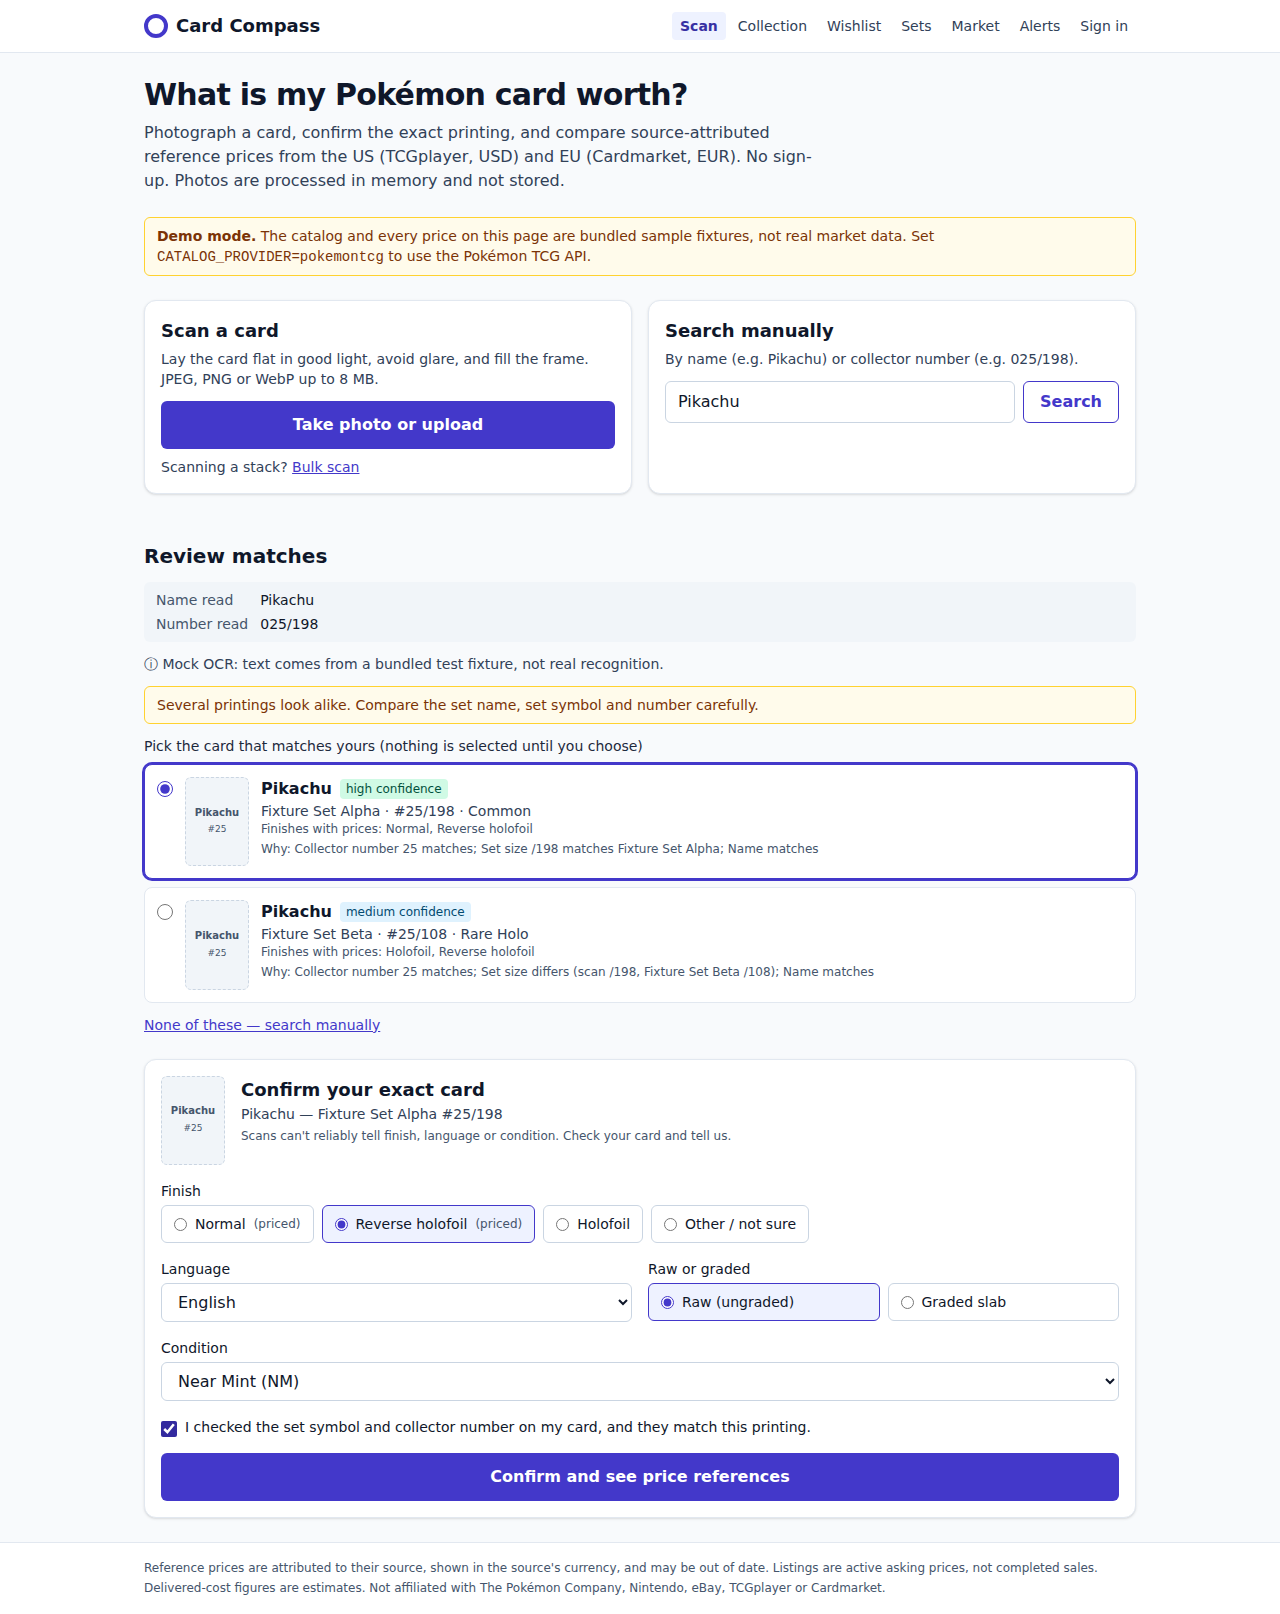
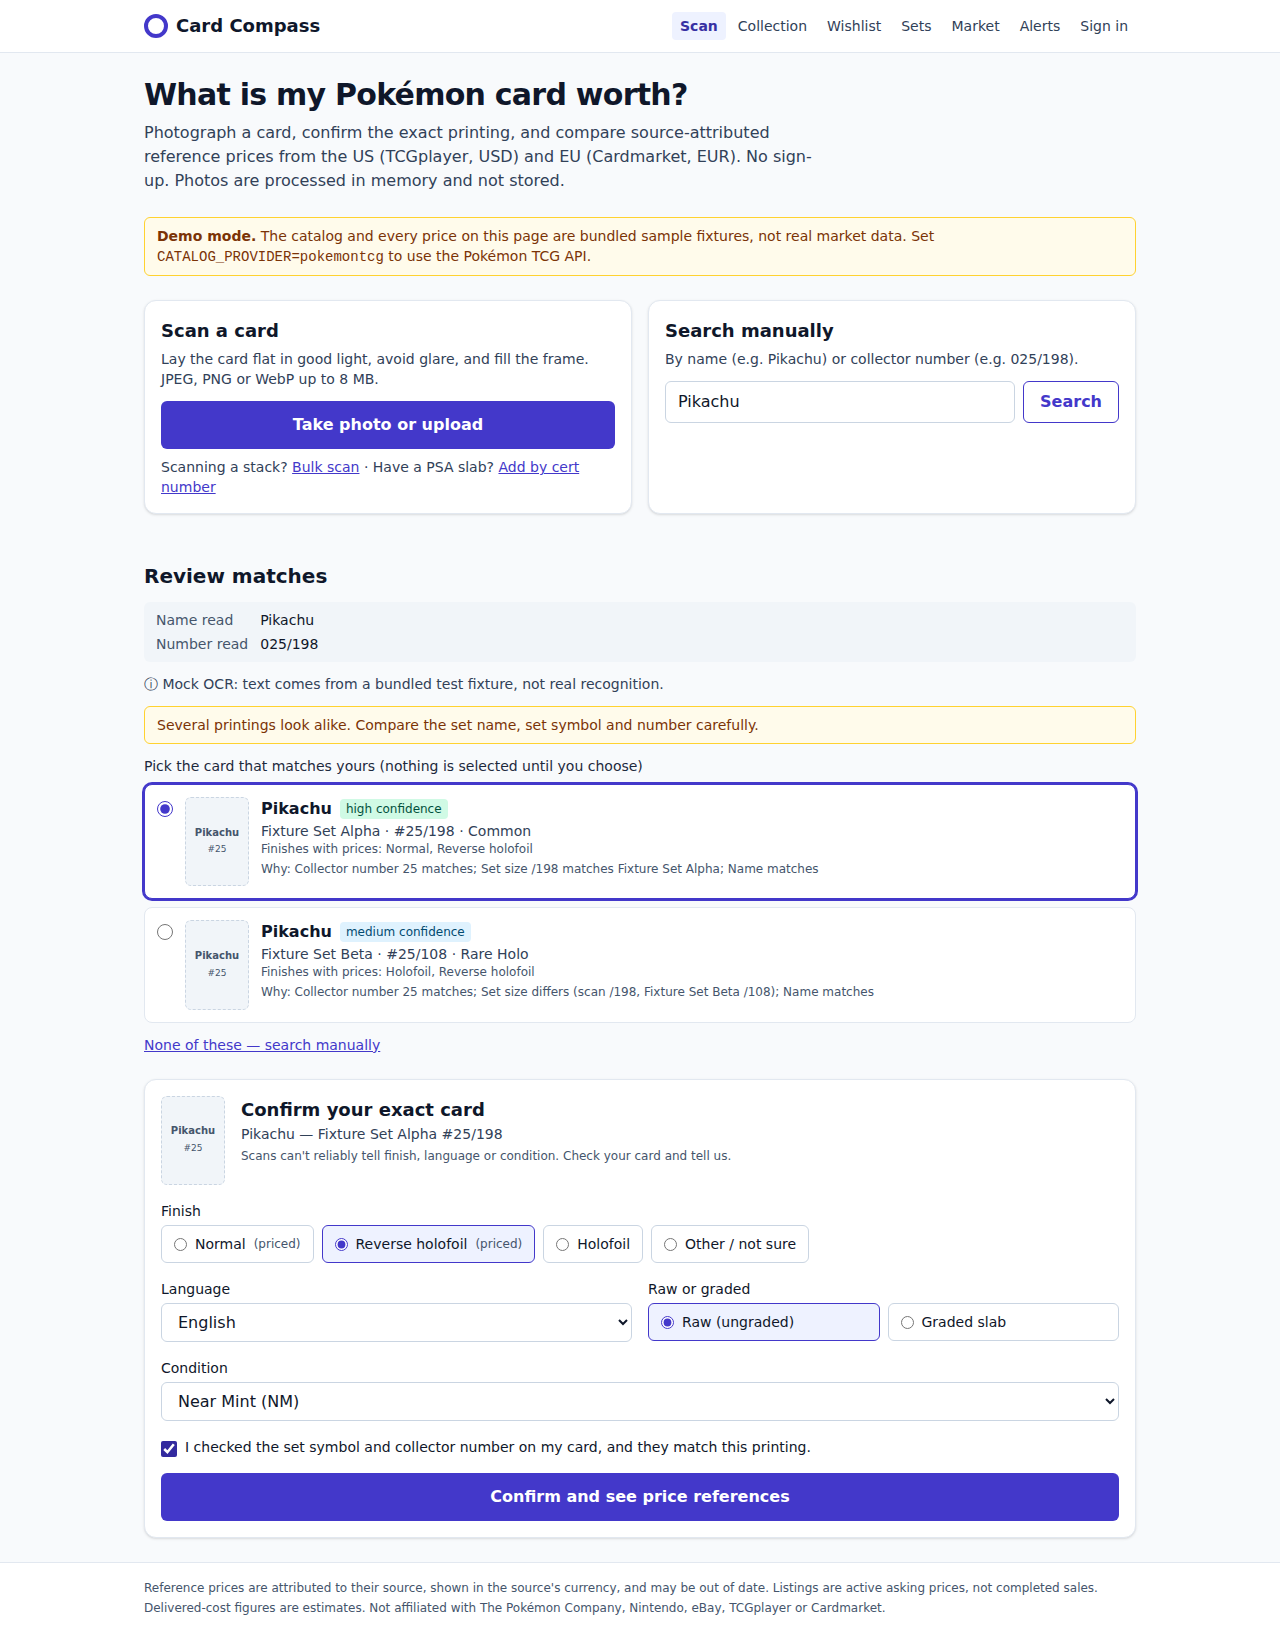
Card Compass: refreshed screenshots (graded, shared page) and a clickable tour page
Claude-Session: https://claude.ai/code/session_01KH5rvvVTWBHC9wvQBVnEjo

diff --git a/card-compass/docs/tour/index.html b/card-compass/docs/tour/index.html
@@ -1,0 +1,253 @@
+<title>Card Compass Tour</title>
+<link rel="preconnect" href="https://fonts.googleapis.com">
+<link rel="preconnect" href="https://fonts.gstatic.com" crossorigin>
+<link rel="stylesheet" href="https://fonts.googleapis.com/css2?family=Bricolage+Grotesque:opsz,wght@12..96,600;12..96,800&family=IBM+Plex+Sans:wght@400;500;600&family=IBM+Plex+Mono:wght@500&display=swap">
+<style>
+  /* Layout: a binder-page stepper on the left, a live device frame on the right; stacks to one column on phones. */
+  :root {
+    --bg: #f3f3f8;
+    --surface: #ffffff;
+    --ink: #151528;
+    --muted: #5a5a76;
+    --line: #dcdcea;
+    --accent: #4338ca;
+    --accent-soft: #e7e6fb;
+    --device: #1b1b2e;
+    --foil: linear-gradient(135deg, #7dd3fc, #c4b5fd 30%, #f9a8d4 55%, #fde68a 80%, #86efac);
+    --font-display: "Bricolage Grotesque", "Segoe UI", system-ui, sans-serif;
+    --font-body: "IBM Plex Sans", system-ui, -apple-system, "Segoe UI", sans-serif;
+    --font-data: "IBM Plex Mono", ui-monospace, "SFMono-Regular", Menlo, monospace;
+  }
+  @media (prefers-color-scheme: dark) {
+    :root:not([data-theme="light"]) {
+      --bg: #0f0f1c; --surface: #191930; --ink: #ececf7; --muted: #a3a3c2; --line: #2c2c48;
+      --accent: #a5b4fc; --accent-soft: #25254a; --device: #05050c; color-scheme: dark;
+    }
+  }
+  :root[data-theme="dark"] {
+    --bg: #0f0f1c; --surface: #191930; --ink: #ececf7; --muted: #a3a3c2; --line: #2c2c48;
+    --accent: #a5b4fc; --accent-soft: #25254a; --device: #05050c; color-scheme: dark;
+  }
+
+  * { box-sizing: border-box; }
+  body {
+    background: var(--bg);
+    color: var(--ink);
+    font: 15px/1.55 var(--font-body);
+  }
+  .wrap { max-width: 1120px; margin: 0 auto; padding-inline: 20px; padding-block: 28px 48px; display: grid; gap: 28px; }
+
+  header { display: grid; gap: 10px; max-width: 70ch; }
+  .eyebrow { font: 600 12px/1 var(--font-body); letter-spacing: .08em; text-transform: uppercase; color: var(--muted); display: flex; align-items: center; gap: 8px; }
+  .eyebrow .dot { width: 10px; height: 10px; border-radius: 50%; border: 3px solid var(--accent); }
+  h1 { font: 800 clamp(30px, 5vw, 46px)/1.05 var(--font-display); letter-spacing: -.02em; margin: 0; text-wrap: balance; }
+  h1 .foil { background: var(--foil); -webkit-background-clip: text; background-clip: text; color: transparent; }
+  header p { margin: 0; color: var(--muted); font-size: 16px; }
+  .note { display: inline-flex; gap: 8px; align-items: baseline; font-size: 13px; color: var(--muted); }
+  .note b { color: var(--ink); font-weight: 600; }
+
+  .stage { display: grid; grid-template-columns: minmax(0, 360px) minmax(0, 1fr); gap: 32px; align-items: start; }
+  @media (max-width: 820px) { .stage { grid-template-columns: minmax(0, 1fr); } }
+
+  /* Steps: the real order a collector moves through the app */
+  .steps { display: grid; gap: 6px; margin: 0; padding: 0; list-style: none; counter-reset: step; }
+  .steps button {
+    width: 100%; text-align: left; display: grid; grid-template-columns: 34px minmax(0, 1fr); gap: 2px 12px; align-items: baseline;
+    background: transparent; border: 1px solid transparent; border-radius: 10px; padding: 10px 12px; cursor: pointer; color: inherit; font: inherit;
+  }
+  .steps button:hover { background: var(--surface); border-color: var(--line); }
+  .steps button:focus-visible { outline: 3px solid var(--accent); outline-offset: 2px; }
+  .steps button[aria-current="step"] { background: var(--surface); border-color: var(--accent); }
+  .steps .n { grid-row: span 2; font: 500 13px/1 var(--font-data); color: var(--muted); padding-top: 3px; }
+  .steps [aria-current="step"] .n { color: var(--accent); }
+  .steps .t { font-weight: 600; }
+  .steps .d { font-size: 13px; color: var(--muted); }
+  @media (max-width: 820px) {
+    .steps { grid-auto-flow: column; grid-auto-columns: minmax(150px, 1fr); overflow-x: auto; padding-bottom: 6px; scroll-snap-type: x mandatory; }
+    .steps li { scroll-snap-align: start; }
+    .steps .d { display: none; }
+  }
+
+  .viewer { display: grid; gap: 16px; justify-items: center; min-width: 0; }
+  .toolbar { display: flex; flex-wrap: wrap; gap: 10px; align-items: center; justify-content: space-between; width: 100%; }
+  .seg { display: inline-flex; background: var(--surface); border: 1px solid var(--line); border-radius: 999px; padding: 3px; }
+  .seg button { border: 0; background: transparent; color: var(--muted); font: 500 14px var(--font-body); padding: 6px 14px; border-radius: 999px; cursor: pointer; }
+  .seg button[aria-pressed="true"] { background: var(--accent); color: var(--surface); }
+  .seg button:focus-visible, .nav button:focus-visible { outline: 3px solid var(--accent); outline-offset: 2px; }
+  .nav { display: flex; gap: 8px; }
+  .nav button { border: 1px solid var(--line); background: var(--surface); color: var(--ink); border-radius: 8px; padding: 6px 12px; font: 500 14px var(--font-body); cursor: pointer; }
+  .nav button:disabled { opacity: .4; cursor: default; }
+
+  /* Device frames: the foil edge nods to holo cards */
+  .phone { width: min(100%, 340px); padding: 3px; border-radius: 46px; background: var(--foil); }
+  .phone .body { background: var(--device); border-radius: 43px; padding: 14px 10px; }
+  .phone .screen { height: min(640px, 72vh); border-radius: 30px; }
+  .browser { width: 100%; max-width: 780px; padding: 3px; border-radius: 14px; background: var(--foil); }
+  .browser .body { background: var(--device); border-radius: 11px; overflow: hidden; }
+  .browser .chrome { display: flex; gap: 6px; align-items: center; padding: 9px 12px; }
+  .browser .chrome i { width: 10px; height: 10px; border-radius: 50%; background: #3a3a55; display: block; }
+  .browser .chrome span { margin-left: 10px; flex: 1; min-width: 0; background: #2a2a44; color: #b8b8d6; border-radius: 6px; padding: 3px 10px; font: 500 12px var(--font-data); white-space: nowrap; overflow: hidden; text-overflow: ellipsis; }
+  .browser .screen { height: min(560px, 64vh); }
+  .screen { overflow-y: auto; overflow-x: hidden; background: #f8fafc; overscroll-behavior: contain; }
+  .screen img { display: block; width: 100%; height: auto; max-width: 100%; }
+  [hidden] { display: none !important; }
+
+  .caption { width: min(100%, 620px); display: grid; gap: 6px; }
+  .caption h2 { font: 700 20px/1.2 var(--font-display); margin: 0; }
+  .caption p { margin: 0; color: var(--muted); }
+  .caption ul { margin: 4px 0 0; padding-left: 18px; display: grid; gap: 2px; }
+  .caption code { font: 500 13px var(--font-data); background: var(--accent-soft); padding: 1px 5px; border-radius: 4px; color: var(--ink); }
+  .hint { font-size: 12px; color: var(--muted); }
+
+  footer { color: var(--muted); font-size: 13px; max-width: 75ch; border-top: 1px solid var(--line); padding-top: 16px; }
+  @media (prefers-reduced-motion: no-preference) { .screen img { animation: fade .25s ease-out; } @keyframes fade { from { opacity: .4; } to { opacity: 1; } } }
+</style>
+
+<div class="wrap">
+  <header>
+    <span class="eyebrow"><span class="dot" aria-hidden="true"></span>Card Compass · product tour</span>
+    <h1>Scan it. Confirm it. Know what it's <span class="foil">really</span> worth.</h1>
+    <p>Real screenshots of the app as it runs today, in demo mode with sample cards and invented prices. Pick a step, then scroll inside the screen.</p>
+    <span class="note"><b>Try:</b> arrow keys move between steps · switch Phone / Desktop</span>
+  </header>
+
+  <div class="stage">
+    <ol class="steps" id="steps" aria-label="Tour steps"></ol>
+
+    <section class="viewer" aria-live="polite">
+      <div class="toolbar">
+        <div class="seg" role="group" aria-label="Device">
+          <button id="phoneBtn" type="button" aria-pressed="true">Phone</button>
+          <button id="deskBtn" type="button" aria-pressed="false">Desktop</button>
+        </div>
+        <div class="nav">
+          <button id="prev" type="button">← Back</button>
+          <button id="next" type="button">Next →</button>
+        </div>
+      </div>
+
+      <div class="phone" id="phone">
+        <div class="body"><div class="screen" id="phoneScreen" tabindex="0" aria-label="Phone screen, scrollable"><img id="phoneImg" alt=""></div></div>
+      </div>
+      <div class="browser" id="browser" hidden>
+        <div class="body">
+          <div class="chrome" aria-hidden="true"><i></i><i></i><i></i><span id="url">cardcompass.app</span></div>
+          <div class="screen" id="deskScreen" tabindex="0" aria-label="Desktop screen, scrollable"><img id="deskImg" alt=""></div>
+        </div>
+      </div>
+      <span class="hint">Scroll inside the screen to see the whole page.</span>
+
+      <div class="caption">
+        <h2 id="capTitle"></h2>
+        <p id="capBody"></p>
+        <ul id="capList"></ul>
+      </div>
+    </section>
+  </div>
+
+  <footer>
+    Everything shown uses bundled demo data: invented sets (“Fixture Set Alpha”), prices, listings and PSA certs, each labelled as demo inside the app.
+    With your API keys the same screens show live Pokémon TCG API, eBay, PriceCharting and PSA data. Not affiliated with The Pokémon Company, eBay, TCGplayer, Cardmarket, PriceCharting or PSA.
+  </footer>
+</div>
+
+<script>
+  const STEPS = [
+    { shot: "1-landing", path: "/", t: "Scan or search", d: "Camera or manual search",
+      body: "Open the app and photograph a card, or search by name or collector number such as 025/198.",
+      list: ["No sign-up needed to check a price", "Photos are processed in memory and never stored", "Bulk scan and PSA-slab links for bigger jobs"] },
+    { shot: "2-review-confirm", path: "/", t: "Confirm the exact card", d: "Nothing is guessed for you",
+      body: "The scan reads the name and number, then shows up to five matching printings with the reason for each. You pick the one in your hand.",
+      list: ["Confidence badge and a plain-English “why” per match", "You choose finish, language and condition: a scan can't see those", "Look-alike printings are flagged"] },
+    { shot: "3-results", path: "/cards/fxa-25", t: "Prices and listings", d: "References + delivered cost",
+      body: "TCGplayer (USD) and Cardmarket (EUR) reference prices for your exact finish, then verified eBay listings ranked by what they'd cost delivered to your country.",
+      list: ["Original currency, dates and sources on every price", "Listings that don't match your card are excluded, with reasons", "Import VAT and duty estimated for EU, UK and Australia; otherwise “total unknown”"] },
+    { shot: "11-graded-results", path: "/cards/fxa-125?grade=PSA10", t: "Graded card prices", d: "PSA 10, BGS 10 and more",
+      body: "For a graded card, the sales-based PriceCharting panel highlights your grade, next to a price-history chart.",
+      list: ["Grades from 7 up to PSA/BGS/CGC/SGC 10", "30-day, 90-day and 1-year history", "Want it? Add to wishlist with a target price"] },
+    { shot: "9-graded", path: "/graded", t: "Add a slab by cert", d: "PSA cert lookup",
+      body: "Type the cert number from a PSA slab. The app shows PSA's record and population and suggests the printing, which you confirm.",
+      list: ["Grade comes straight from the cert", "The same cert can't be added twice", "Valued at its exact grade in your collection"] },
+    { shot: "4-collection", path: "/collection", t: "Your collection", d: "Value, profit/loss, binders",
+      body: "Collection value on each source's basis, never mixed across currencies, with daily history, binders and profit or loss against what you paid.",
+      list: ["Binders such as “Trade” or “PC”", "CSV import (with preview) and export", "Share a read-only link"] },
+    { shot: "6-set", path: "/sets/fxa", t: "Set completion", d: "Owned vs missing",
+      body: "See how far through each set you are, filter to what's missing, and add gaps to your wishlist in one tap.",
+      list: ["Counts secret rares", "Owned finishes shown per card"] },
+    { shot: "8-bulk-scan", path: "/scan/bulk", t: "Bulk scan", d: "A whole stack at once",
+      body: "Snap card after card or pick many photos. Each one is matched, and you confirm the printing and finish before anything is saved.",
+      list: ["Only confident, unambiguous matches are pre-selected", "Batch-wide language, condition and binder"] },
+    { shot: "7-market", path: "/market", t: "Market movers", d: "7- and 30-day moves",
+      body: "The biggest price moves among tracked cards, up and down, over 7 or 30 days.",
+      list: ["Cards under 1.00 are ignored so pennies don't dominate", "Tap through to any card"] },
+    { shot: "5-alerts", path: "/alerts", t: "Price alerts", d: "Push, in-app and email",
+      body: "Get told once when a price crosses your line, on your phone, in the app, or by email.",
+      list: ["Fires on the crossing, not every day", "Wishlist targets create alerts automatically"] },
+    { shot: "10-shared", path: "/u/…", t: "Share with a link", d: "Trade lists and collections",
+      body: "A read-only page for a binder, your collection or your wishlist. You decide whether values show.",
+      list: ["Never shows your email, purchase prices or cert numbers", "Revoke any time; hidden from search engines"] },
+  ];
+
+  const $ = (id) => document.getElementById(id);
+  let i = 0;
+  let device = "phone";
+  try { if (localStorage.getItem("tour.device") === "desktop") device = "desktop"; } catch (e) {}
+
+  const list = $("steps");
+  STEPS.forEach((s, k) => {
+    const li = document.createElement("li");
+    const b = document.createElement("button");
+    b.type = "button";
+    b.innerHTML = '<span class="n">' + String(k + 1).padStart(2, "0") + '</span><span class="t"></span><span class="d"></span>';
+    b.querySelector(".t").textContent = s.t;
+    b.querySelector(".d").textContent = s.d;
+    b.addEventListener("click", () => show(k));
+    li.appendChild(b);
+    list.appendChild(li);
+  });
+
+  function src(k, dev) {
+    return "shots/" + (dev === "phone" ? "mobile-390-" : "desktop-1280-") + STEPS[k].shot + ".png";
+  }
+
+  function show(k) {
+    i = Math.max(0, Math.min(STEPS.length - 1, k));
+    const s = STEPS[i];
+    list.querySelectorAll("button").forEach((b, j) => (j === i ? b.setAttribute("aria-current", "step") : b.removeAttribute("aria-current")));
+    const phone = device === "phone";
+    $("phone").hidden = !phone;
+    $("browser").hidden = phone;
+    $("phoneBtn").setAttribute("aria-pressed", String(phone));
+    $("deskBtn").setAttribute("aria-pressed", String(!phone));
+    const img = phone ? $("phoneImg") : $("deskImg");
+    img.src = src(i, device);
+    img.alt = s.t + " screen (" + (phone ? "phone" : "desktop") + ")";
+    (phone ? $("phoneScreen") : $("deskScreen")).scrollTop = 0;
+    $("url").textContent = "cardcompass.app" + s.path;
+    $("capTitle").textContent = String(i + 1).padStart(2, "0") + " · " + s.t;
+    $("capBody").textContent = s.body;
+    $("capList").replaceChildren(...s.list.map((x) => { const li = document.createElement("li"); li.textContent = x; return li; }));
+    $("prev").disabled = i === 0;
+    $("next").disabled = i === STEPS.length - 1;
+    list.querySelectorAll("li")[i].scrollIntoView({ block: "nearest", inline: "nearest" });
+    // warm the next image
+    if (i + 1 < STEPS.length) { const pre = new Image(); pre.src = src(i + 1, device); }
+  }
+
+  function setDevice(d) {
+    device = d;
+    try { localStorage.setItem("tour.device", d); } catch (e) {}
+    show(i);
+  }
+
+  $("phoneBtn").addEventListener("click", () => setDevice("phone"));
+  $("deskBtn").addEventListener("click", () => setDevice("desktop"));
+  $("prev").addEventListener("click", () => show(i - 1));
+  $("next").addEventListener("click", () => show(i + 1));
+  document.addEventListener("keydown", (e) => {
+    if (e.target.closest && e.target.closest("input,select,textarea")) return;
+    if (e.key === "ArrowRight") show(i + 1);
+    if (e.key === "ArrowLeft") show(i - 1);
+  });
+  show(0);
+</script>

diff --git a/card-compass/scripts/screenshots.ts b/card-compass/scripts/screenshots.ts
@@ -70,6 +70,28 @@ async function run(label: string, width: number, height: number) {
   ]);
   await page.getByText("0 still scanning").waitFor();
   await shot("8-bulk-scan");
+
+  await page.goto(`${BASE}/graded`);
+  await page.getByLabel("PSA cert number").fill("90000001");
+  await page.getByRole("button", { name: "Look up" }).click();
+  await page.getByRole("radio", { name: /Charizard ex.*Fixture Set Alpha/ }).check();
+  await page.getByLabel(/^Finish/).selectOption("holofoil");
+  await shot("9-graded");
+
+  await page.goto(`${BASE}/collection`);
+  await page.getByRole("button", { name: "Share" }).click();
+  await page.getByLabel("Title").fill("Alex's collection");
+  await page.getByLabel("Show values").check();
+  await page.getByRole("button", { name: "Create link" }).click();
+  const url = await page.getByLabel("Link for Alex's collection").inputValue();
+  await page.goto(`${BASE}${new URL(url).pathname}`);
+  await page.getByRole("heading", { name: "Alex's collection" }).waitFor();
+  await shot("10-shared");
+
+  await page.goto(`${BASE}/cards/fxa-125?finish=holofoil&lang=en&grading=graded&grader=PSA&grade=10`);
+  await page.getByRole("heading", { name: "Market references" }).waitFor();
+  await page.getByTestId("offers").getByRole("heading").first().waitFor();
+  await shot("11-graded-results");
   await browser.close();
 }
 
